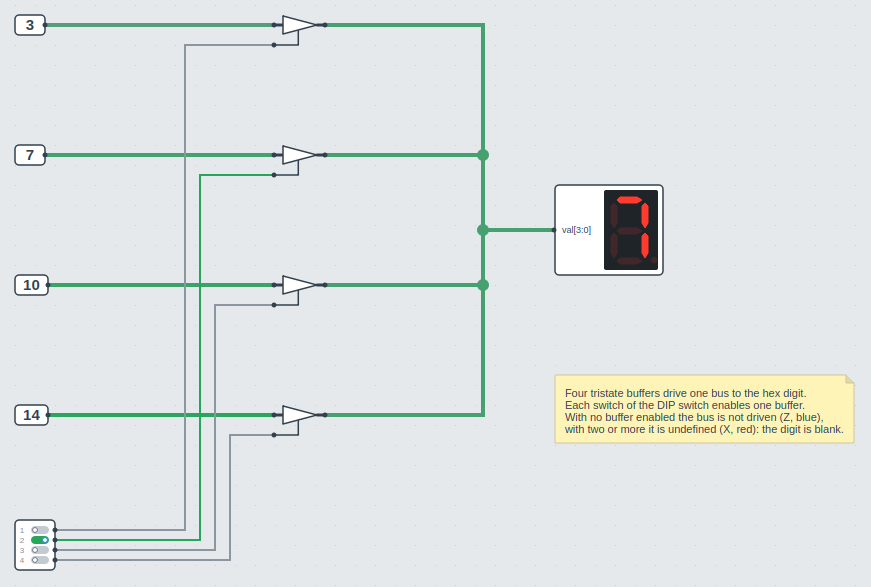
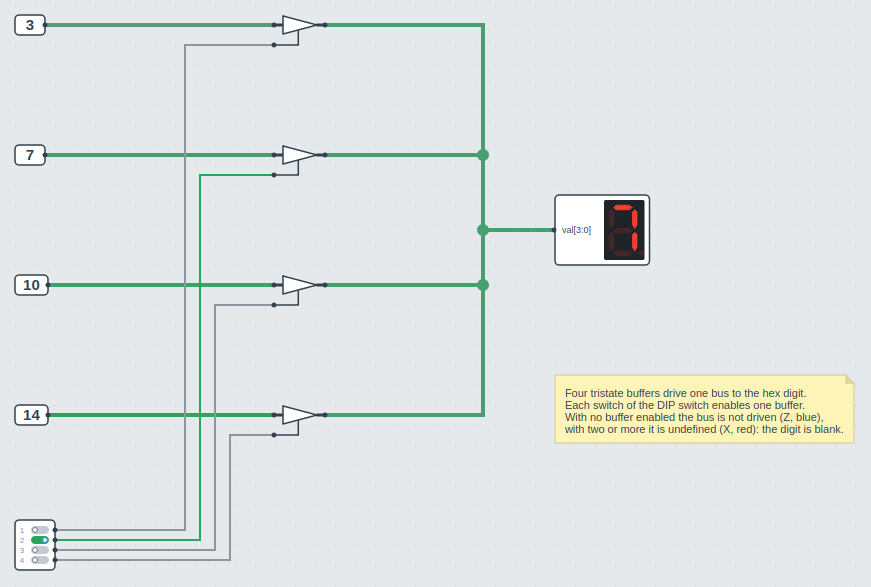
Draw the hex digit and the 7-segment digit smaller
They were the largest components next to the smaller new ones. The
examples with a hex digit are lined up with its inputs again.

Changed region(s): [[0.62, 0.3066, 0.775, 0.4906]]

diff --git a/src/digsim/app/gui_objects/_seven_segment_object.py b/src/digsim/app/gui_objects/_seven_segment_object.py
@@ -8,7 +8,7 @@ from __future__ import annotations
 import typing
 from typing import TYPE_CHECKING
 
-from PySide6.QtCore import QPoint, QRectF, QSize
+from PySide6.QtCore import QPoint, QPointF, QRectF, QSize
 from PySide6.QtGui import QPainter, QPainterPath
 
 from digsim.circuit.components import HexDigit, SevenSegment
@@ -60,6 +60,9 @@ class SevenSegmentObject(ComponentObject):
     DIGIT_WIDTH = 54
     DIGIT_HEIGHT = 80
 
+    # The digits are drawn smaller than the sizes above
+    SCALE = 0.75
+
     DOT_OFFSET_X = 40
     DOT_OFFSET_Y = 60
     DOT_RADIUS = 3
@@ -85,22 +88,30 @@ class SevenSegmentObject(ComponentObject):
         """Setup the size of the component"""
         str_pixels_w, _ = self.get_string_metrics("dot")
         self.digit_left = self.inport_x_pos() + str_pixels_w + self.PORT_TO_RECT_MARGIN
-        self.width = self.digit_left + self.DIGIT_WIDTH + self.RECT_TO_DIGIT_RECT_MARGIN
+        self.width = (
+            self.digit_left + self.DIGIT_WIDTH * self.SCALE + self.RECT_TO_DIGIT_RECT_MARGIN
+        )
         self.update_ports()
 
     def paint_component(self, painter: QPainter) -> None:
         self.paint_component_base(painter)
-        digit_ypos = self.height / 2 - self.DIGIT_HEIGHT / 2
-        self.paint_digit_rect(
-            painter, self.object_pos.x() + self.digit_left, self.object_pos.y() + digit_ypos
-        )
-        active_segments = self.component.segments()
-        self.draw_digit(
+        digit_ypos = self.height / 2 - self.DIGIT_HEIGHT * self.SCALE / 2
+        self.paint_digits(
             painter,
-            self.object_pos.x() + self.digit_left,
-            self.object_pos.y() + digit_ypos,
-            active_segments,
+            QPointF(self.object_pos.x() + self.digit_left, self.object_pos.y() + digit_ypos),
+            [self.component.segments()],
         )
+
+    @classmethod
+    def paint_digits(cls, painter: QPainter, pos: QPointF, segments: list[str]) -> None:
+        """The window and the digits in it, at SCALE, from the top left corner"""
+        painter.save()
+        painter.translate(pos)
+        painter.scale(cls.SCALE, cls.SCALE)
+        cls.paint_digit_rect(painter, 0, 0, len(segments))
+        for index, active_segments in enumerate(segments):
+            cls.draw_digit(painter, index * cls.DIGIT_WIDTH, 0, active_segments)
+        painter.restore()
 
     @classmethod
     def paint_selectable_component(cls, painter: QPainter, size: QSize, name: str) -> None:
@@ -113,8 +124,8 @@ class SevenSegmentObject(ComponentObject):
         """Paint a digit (for the component selector)"""
         painter.save()
         painter.setRenderHint(QPainter.RenderHint.Antialiasing)
-        painter.translate(size.width() / 2, 6)
-        painter.scale(0.7, 0.7)
+        painter.translate(size.width() / 2, 10)
+        painter.scale(0.58, 0.58)
         xpos = -cls.DIGIT_WIDTH / 2
         theme.paint_body(painter, QRectF(xpos - 5, 0, cls.DIGIT_WIDTH + 10, cls.DIGIT_HEIGHT + 10))
         cls.paint_digit_rect(painter, xpos, 5)

diff --git a/src/digsim/app/gui_objects/_hexdigit_object.py b/src/digsim/app/gui_objects/_hexdigit_object.py
@@ -7,7 +7,7 @@ from __future__ import annotations
 
 from typing import TYPE_CHECKING
 
-from PySide6.QtCore import QSize
+from PySide6.QtCore import QPointF, QSize
 from PySide6.QtGui import QPainter
 
 from digsim.circuit.components import HexDigit
@@ -47,27 +47,20 @@ class HexDigitObject(SevenSegmentObject):
         self.digit_left = self.inport_x_pos() + str_pixels_w + self.PORT_TO_RECT_MARGIN
         self.digit_top = self.RECT_TO_DIGIT_RECT_MARGIN
         self.width = (
-            self.digit_left + self.digits * self.DIGIT_WIDTH + self.RECT_TO_DIGIT_RECT_MARGIN
+            self.digit_left
+            + self.digits * self.DIGIT_WIDTH * self.SCALE
+            + self.RECT_TO_DIGIT_RECT_MARGIN
         )
-        self.height = 2 * self.RECT_TO_DIGIT_RECT_MARGIN + self.DIGIT_HEIGHT
+        self.height = 2 * self.RECT_TO_DIGIT_RECT_MARGIN + self.DIGIT_HEIGHT * self.SCALE
         self.update_ports()
 
     def paint_component(self, painter: QPainter) -> None:
         self.paint_component_base(painter)
-        self.paint_digit_rect(
+        self.paint_digits(
             painter,
-            self.object_pos.x() + self.digit_left,
-            self.object_pos.y() + self.RECT_TO_DIGIT_RECT_MARGIN,
-            self.digits,
+            QPointF(self.object_pos.x() + self.digit_left, self.object_pos.y() + self.digit_top),
+            [self.component.segments(digit_id) for digit_id in range(self.digits)],
         )
-        for digit_id in range(self.digits):
-            active_segments = self.component.segments(digit_id)
-            self.draw_digit(
-                painter,
-                self.object_pos.x() + self.digit_left + self.DIGIT_WIDTH * digit_id,
-                self.object_pos.y() + self.digit_top,
-                active_segments,
-            )
 
     @classmethod
     def paint_selectable_component(cls, painter: QPainter, size: QSize, name: str) -> None:
